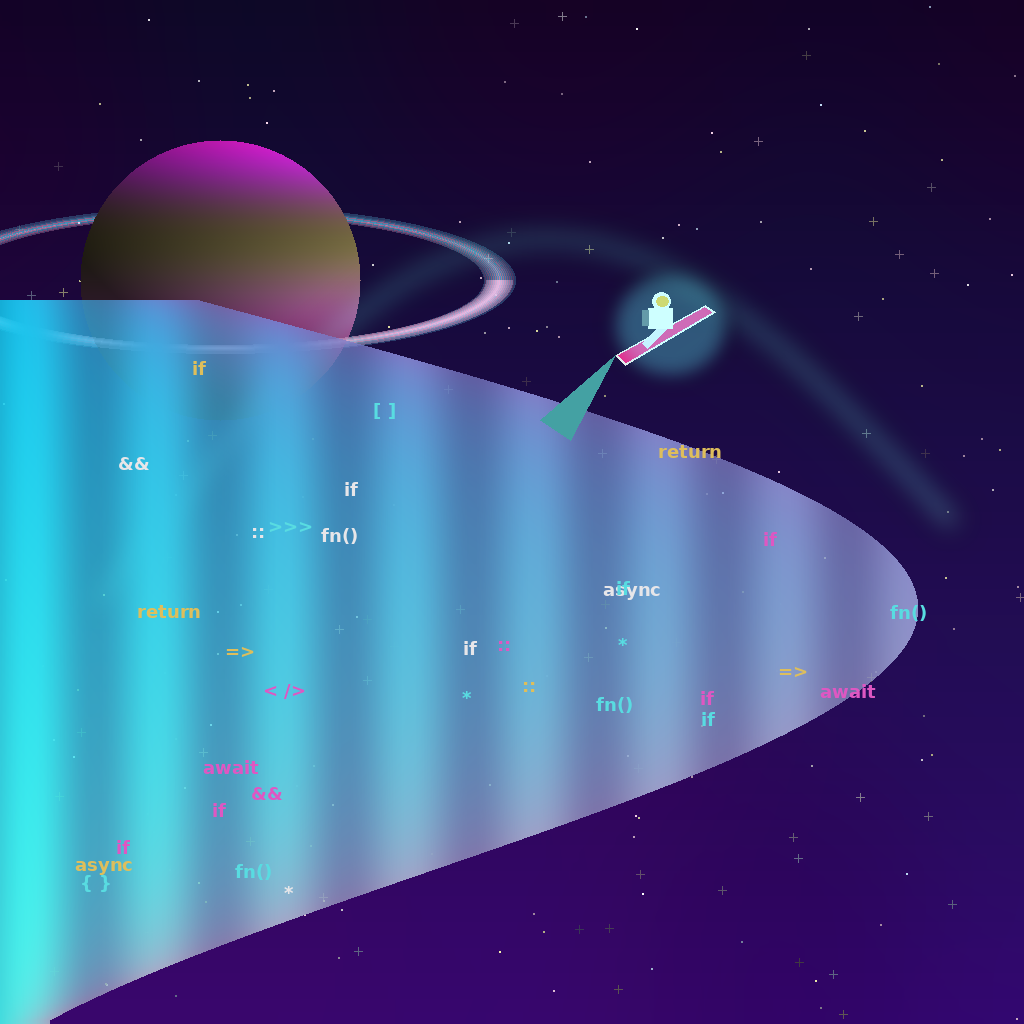
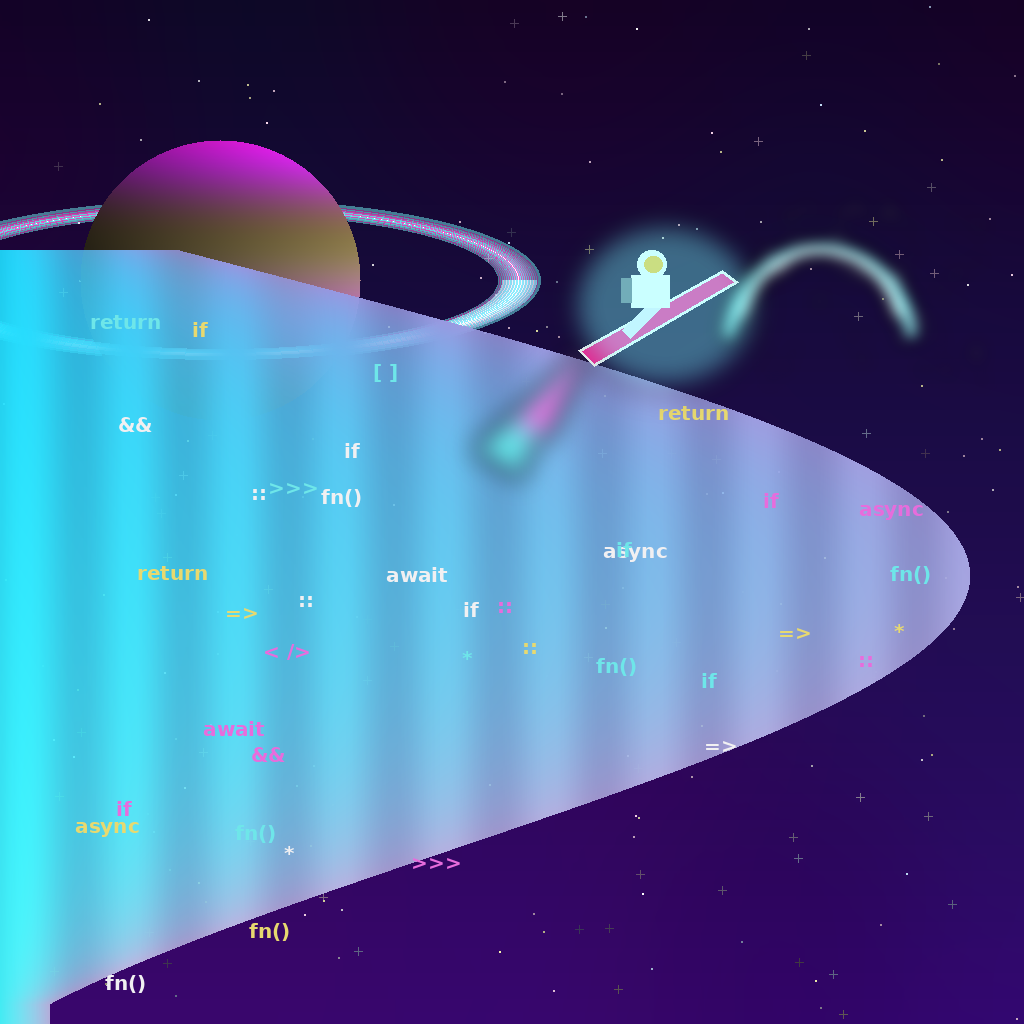
Polish bounty entry image: curling wave crest, spray, larger astronaut, enhanced rings

diff --git a/generate_image.py b/generate_image.py
@@ -58,7 +58,7 @@ def create_entry_image():
         else:
             draw.ellipse([sx, sy, sx+size-1, sy+size-1], fill=color)
 
-    # 3. Huge ringed gas giant planet rising in the background (top-left)
+    # 3. Huge ringed gas giant planet rising in the background (top-left) with high-contrast glowing rings
     planet_cx, planet_cy, planet_r = 220, 280, 140
     # Planet base shading
     planet_layer = Image.new("RGBA", (width, height), (0, 0, 0, 0))
@@ -72,55 +72,47 @@ def create_entry_image():
                 px = planet_cx + dx
                 py = planet_cy + dy
                 if 0 <= px < width and 0 <= py < height:
-                    # latitude band coloring
                     angle_y = dy / planet_r
-                    # color blend: rich pink/orange/purple bands
-                    base_r = int(180 + 60 * math.sin(angle_y * 4))
-                    base_g = int(80 + 50 * math.cos(angle_y * 3))
-                    base_b = int(140 + 70 * math.sin(angle_y * 5))
-                    
-                    # 3D lighting gradient (light from top-right)
+                    base_r = int(200 + 55 * math.sin(angle_y * 4))
+                    base_g = int(90 + 60 * math.cos(angle_y * 3))
+                    base_b = int(160 + 80 * math.sin(angle_y * 5))
                     light = 0.5 + 0.5 * (dx * 0.7 - dy * 0.7) / planet_r
-                    light = max(0.2, min(1.0, light))
-                    
+                    light = max(0.25, min(1.0, light))
                     col = (int(base_r * light), int(base_g * light), int(base_b * light), 255)
                     planet_layer.putpixel((px, py), col)
 
-    # Draw rings behind planet part
+    # Draw rings behind planet part (high contrast & vivid)
     ring_layer = Image.new("RGBA", (width, height), (0, 0, 0, 0))
     r_draw = ImageDraw.Draw(ring_layer)
     
-    # Rings ellipse
-    rx_radius, ry_radius = 280, 70
-    # draw rotated ring segments
-    for r_offset in range(-15, 16):
+    rx_radius, ry_radius = 300, 75
+    for r_offset in range(-20, 21):
         curr_rx = rx_radius + r_offset
         curr_ry = ry_radius + int(r_offset * 0.3)
-        alpha = int(180 - abs(r_offset) * 8)
-        ring_color = (255, 180, 220, alpha) if r_offset % 2 == 0 else (100, 220, 255, alpha)
+        alpha = int(240 - abs(r_offset) * 6)
+        # High contrast electric cyan and magenta ring tracks with white bright core
+        if r_offset == 0:
+            ring_color = (255, 255, 255, 255)
+        elif r_offset % 2 == 0:
+            ring_color = (120, 255, 255, alpha)
+        else:
+            ring_color = (255, 100, 220, alpha)
         r_draw.ellipse([
             planet_cx - curr_rx, planet_cy - curr_ry,
             planet_cx + curr_rx, planet_cy + curr_ry
-        ], outline=ring_color, width=2)
+        ], outline=ring_color, width=3)
 
-    # Composite back rings, planet, front rings
-    # Split rings into back and front based on y relative to center
-    # Actually, simpler way: draw rings, then planet over top half, or draw full rings and mask front
-    # Let's do accurate ring clipping:
-    # Back rings (where py < planet_cy + some tilt)
-    # Let's draw planet and rings nicely:
     img = Image.alpha_composite(img, ring_layer) # under planet
     img = Image.alpha_composite(img, planet_layer)
     
-    # Front half of rings overlapping planet
+    # Front half of rings overlapping planet (high contrast)
     front_ring_layer = Image.new("RGBA", (width, height), (0, 0, 0, 0))
     fr_draw = ImageDraw.Draw(front_ring_layer)
-    for r_offset in range(-12, 13):
+    for r_offset in range(-16, 17):
         curr_rx = rx_radius + r_offset
         curr_ry = ry_radius + int(r_offset * 0.3)
-        alpha = int(200 - abs(r_offset) * 10)
-        ring_color = (255, 200, 240, alpha)
-        # Draw only lower half of ellipse for foreground ring
+        alpha = int(255 - abs(r_offset) * 7)
+        ring_color = (255, 255, 255, alpha) if r_offset % 3 == 0 else (140, 240, 255, alpha)
         fr_draw.arc([
             planet_cx - curr_rx, planet_cy - curr_ry,
             planet_cx + curr_rx, planet_cy + curr_ry
@@ -129,134 +121,115 @@ def create_entry_image():
     img = Image.alpha_composite(img, front_ring_layer)
     draw = ImageDraw.Draw(img)
 
-    # 4. Giant Luminous Wave made of code brackets and dynamic shapes
+    # 4. Giant Luminous Wave with curling crest and dynamic spray
     wave_layer = Image.new("RGBA", (width, height), (0, 0, 0, 0))
-    w_draw = ImageDraw.Draw(wave_layer)
     
-    # Wave path from bottom left sweeping up across diagonal to upper right
-    # Constructing a massive curling wave polygon
-    wave_poly = [
-        (0, height),
-        (0, 650),
-        (150, 550),
-        (350, 420),
-        (600, 320),
-        (800, 380),
-        (950, 500),
-        (1024, 600),
-        (1024, height)
-    ]
-    
-    # Make a smooth curving wave crest using bezier-like points or smooth interpolation
-    # Let's draw a rich gradient wave body
-    for y in range(300, height):
-        # horizontal span of wave at this y
-        # wave crest curves from left to right
-        # simple parametric curve for wave front edge
-        wave_edge_x = int(200 + 600 * math.sin((y - 300) / 400 * math.pi * 0.7) + (y - 300) * 0.4)
+    for y in range(250, height):
+        wave_edge_x = int(180 + 650 * math.sin((y - 250) / 450 * math.pi * 0.75) + (y - 250) * 0.45)
         wave_edge_x = max(50, min(width - 50, wave_edge_x))
         
         for x in range(0, wave_edge_x):
-            # Gradient inside wave: electric teal, cyan, deep violet, bright magenta
             progress = x / max(1, wave_edge_x)
-            depth_factor = (y - 300) / max(1, height - 300)
+            depth_factor = (y - 250) / max(1, height - 250)
             
-            wr = int(20 + 100 * progress + 50 * depth_factor)
-            wg = int(200 - 80 * progress + 55 * depth_factor)
-            wb = int(240 - 40 * progress)
-            wa = int(220 + 35 * math.sin(x * 0.05))
+            wr = int(30 + 120 * progress + 40 * depth_factor)
+            wg = int(220 - 70 * progress + 35 * depth_factor)
+            wb = int(255 - 30 * progress)
+            wa = int(235 + 20 * math.sin(x * 0.06))
             
             wave_layer.putpixel((x, y), (wr, wg, wb, wa))
 
-    # Add foam / luminous crest along the wave curve
+    # Add curling wave lip / barrel at the top right and sparkling white spray droplets
     crest_glow = Image.new("RGBA", (width, height), (0, 0, 0, 0))
     c_draw = ImageDraw.Draw(crest_glow)
     
-    # Draw sweeping glowing crest line
-    crest_points = []
-    for i in range(100):
-        t = i / 99.0
-        cx_pt = int(100 + 850 * t)
-        cy_pt = int(600 - 320 * math.sin(t * math.pi) - 80 * t)
-        crest_points.append((cx_pt, cy_pt))
-        # Draw glowing burst at each crest point
-        c_draw.ellipse([cx_pt-15, cy_pt-15, cx_pt+15, cy_pt+15], fill=(100, 255, 240, 60))
-        c_draw.ellipse([cx_pt-6, cy_pt-6, cx_pt+6, cy_pt+6], fill=(255, 255, 255, 200))
+    # Curling lip (hook shape at upper right)
+    c_draw.arc([720, 240, 920, 440], start=180, end=360, fill=(150, 255, 255, 240), width=18)
+    c_draw.arc([740, 250, 900, 420], start=190, end=350, fill=(255, 255, 255, 255), width=8)
 
-    crest_glow = crest_glow.filter(ImageFilter.GaussianBlur(15))
+    # White spray droplets flying off the crest
+    random.seed(999)
+    for _ in range(80):
+        dx = random.randint(750, 980)
+        dy = random.randint(200, 380)
+        ds = random.randint(2, 6)
+        c_draw.ellipse([dx, dy, dx + ds, dy + ds], fill=(255, 255, 255, random.randint(180, 255)))
+
+    crest_glow = crest_glow.filter(ImageFilter.GaussianBlur(8))
     img = Image.alpha_composite(img, crest_glow)
     img = Image.alpha_composite(img, wave_layer)
     draw = ImageDraw.Draw(img)
 
     # 5. Code brackets and syntax symbols embedded in the wave and sky
-    # Let's draw sharp glowing code symbols ({ }, < >, [ ], &&, =>, //, function, return)
     symbols = ["{ }", "< />", "[ ]", "=>", "&&", "return", "if", "async", "await", "fn()", "::", ">>>", "*"]
     
     try:
-        # Try loading a clean monospace or bold font, fallback to default if not available
-        font_large = ImageFont.truetype("/usr/share/fonts/truetype/dejavu/DejaVuSans-Bold.ttf", 28)
-        font_small = ImageFont.truetype("/usr/share/fonts/truetype/dejavu/DejaVuSans-Bold.ttf", 18)
+        font_small = ImageFont.truetype("/usr/share/fonts/truetype/dejavu/DejaVuSans-Bold.ttf", 20)
     except:
-        font_large = ImageFont.load_default()
         font_small = ImageFont.load_default()
 
     random.seed(1337)
-    for _ in range(50):
+    for _ in range(60):
         sym = random.choice(symbols)
         bx = random.randint(50, 950)
-        by = random.randint(320, 980)
+        by = random.randint(280, 980)
         
-        # Check if inside wave region roughly
-        # Wave x bounds at by
-        approx_edge = int(200 + 600 * math.sin((by - 300) / 400 * math.pi * 0.7) + (by - 300) * 0.4)
+        approx_edge = int(180 + 650 * math.sin((by - 250) / 450 * math.pi * 0.75) + (by - 250) * 0.45)
         if bx < approx_edge:
             col = random.choice([
-                (255, 255, 255, 230),
-                (100, 255, 255, 220),
-                (255, 100, 220, 220),
-                (255, 220, 100, 220)
+                (255, 255, 255, 240),
+                (120, 255, 255, 230),
+                (255, 120, 240, 230),
+                (255, 240, 120, 230)
             ])
             draw.text((bx, by), sym, fill=col, font=font_small)
 
-    # 6. Lone Tiny Astronaut on a Surfboard riding the wave crest!
-    # Positioned near the peak of the wave (around x=650, y=340)
-    ast_x, ast_y = 660, 330
+    # 6. Lone Astronaut on a Surfboard (enlarged by ~1.6x with vivid glowing trail)
+    ast_x, ast_y = 650, 310
     
-    # Surfboard: sleek glowing magenta/cyan board tilted diagonally
+    # Glowing energy trail behind surfboard
+    trail_layer = Image.new("RGBA", (width, height), (0, 0, 0, 0))
+    t_draw = ImageDraw.Draw(trail_layer)
+    t_draw.polygon([
+        (ast_x - 70, ast_y + 40),
+        (ast_x - 180, ast_y + 140),
+        (ast_x - 130, ast_y + 170)
+    ], fill=(100, 255, 240, 180))
+    t_draw.polygon([
+        (ast_x - 60, ast_y + 35),
+        (ast_x - 140, ast_y + 110),
+        (ast_x - 100, ast_y + 130)
+    ], fill=(255, 100, 220, 200))
+    trail_layer = trail_layer.filter(ImageFilter.GaussianBlur(12))
+    img = Image.alpha_composite(img, trail_layer)
+    draw = ImageDraw.Draw(img)
+
+    # Surfboard (enlarged 1.6x)
     board_poly = [
-        (ast_x - 45, ast_y + 25),
-        (ast_x + 45, ast_y - 25),
-        (ast_x + 55, ast_y - 18),
-        (ast_x - 35, ast_y + 35)
+        (ast_x - 72, ast_y + 40),
+        (ast_x + 72, ast_y - 40),
+        (ast_x + 88, ast_y - 28),
+        (ast_x - 56, ast_y + 56)
     ]
-    draw.polygon(board_poly, fill=(255, 40, 150, 255))
-    draw.polygon(board_poly, outline=(255, 255, 255, 255), width=2)
-    
-    # Surfboard energy trail / wake
-    wake_poly = [
-        (ast_x - 45, ast_y + 25),
-        (ast_x - 120, ast_y + 90),
-        (ast_x - 90, ast_y + 110)
-    ]
-    draw.polygon(wake_poly, fill=(100, 255, 240, 160))
+    draw.polygon(board_poly, fill=(255, 40, 160, 255))
+    draw.polygon(board_poly, outline=(255, 255, 255, 255), width=3)
 
-    # Astronaut body (crouched surfing pose)
-    # Suit: crisp white with cyan/gold accents
+    # Astronaut body (enlarged 1.6x, crisp proportions)
     # Legs bent
-    draw.line([(ast_x - 15, ast_y + 15), (ast_x + 5, ast_y - 5)], fill=(240, 240, 255, 255), width=8)
+    draw.line([(ast_x - 24, ast_y + 24), (ast_x + 8, ast_y - 8)], fill=(240, 240, 255, 255), width=12)
     # Torso
-    draw.rectangle([ast_x - 12, ast_y - 22, ast_x + 12, ast_y - 2], fill=(255, 255, 255, 255))
+    draw.rectangle([ast_x - 19, ast_y - 35, ast_x + 19, ast_y - 3], fill=(255, 255, 255, 255))
     # Backpack / Jetpack
-    draw.rectangle([ast_x - 18, ast_y - 20, ast_x - 12, ast_y - 5], fill=(100, 110, 130, 255))
+    draw.rectangle([ast_x - 29, ast_y - 32, ast_x - 19, ast_y - 8], fill=(110, 120, 140, 255))
     # Helmet (gold glowing visor)
-    draw.ellipse([ast_x - 8, ast_y - 38, ast_x + 10, ast_y - 20], fill=(255, 255, 255, 255))
-    draw.ellipse([ast_x - 4, ast_y - 34, ast_x + 8, ast_y - 24], fill=(255, 200, 50, 255)) # gold visor reflection
+    draw.ellipse([ast_x - 13, ast_y - 60, ast_x + 16, ast_y - 32], fill=(255, 255, 255, 255))
+    draw.ellipse([ast_x - 6, ast_y - 54, ast_x + 12, ast_y - 38], fill=(255, 200, 50, 255))
 
-    # Add a brilliant energy aura around astronaut & board
+    # Brilliant energy aura around astronaut & board
     aura = Image.new("RGBA", (width, height), (0, 0, 0, 0))
     a_draw = ImageDraw.Draw(aura)
-    a_draw.ellipse([ast_x - 50, ast_y - 60, ast_x + 70, ast_y + 50], fill=(100, 255, 255, 80))
-    aura = aura.filter(ImageFilter.GaussianBlur(10))
+    a_draw.ellipse([ast_x - 80, ast_y - 90, ast_x + 110, ast_y + 80], fill=(120, 255, 255, 100))
+    aura = aura.filter(ImageFilter.GaussianBlur(14))
     img = Image.alpha_composite(img, aura)
 
     # 7. Final polishing: conversion to RGB and saving as entry.png
